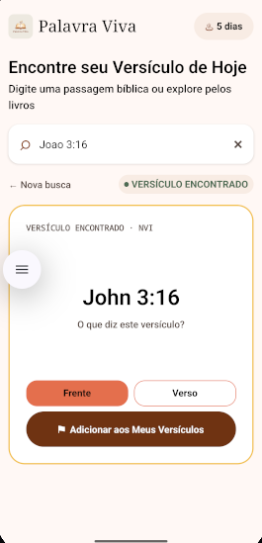
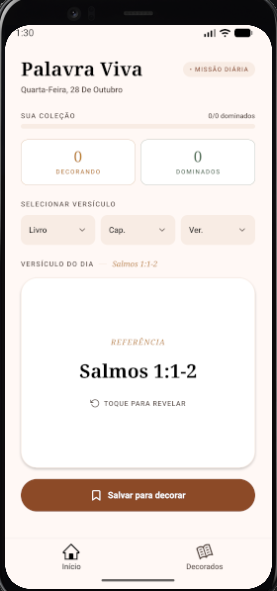
feat: update README with new screenshot layout and replace outdated images

diff --git a/README.md b/README.md
@@ -4,13 +4,9 @@ Aplicativo mobile para encontrar, estudar e memorizar versículos bíblicos. Bus
 
 ## Capturas de tela
 
-| Busca de versículos | Frente do flashcard |
-|:--:|:--:|
-| <img src="assets/screenshots/01-busca.png" alt="Tela inicial com campo de busca de versículos" width="220"> | <img src="assets/screenshots/02-frente-do-flashcard.png" alt="Flashcard com a referência antes de revelar o versículo" width="220"> |
-
-| Versículo revelado | Coleção de versículos salvos |
-|:--:|:--:|
-| <img src="assets/screenshots/03-versiculo-revelado.png" alt="Flashcard mostrando o texto do versículo" width="220"> | <img src="assets/screenshots/04-versiculos-salvos.png" alt="Lista de versículos salvos com filtros de progresso" width="220"> |
+| Frente do flashcard | Versículo revelado | Coleção de versículos salvos |
+|:--:|:--:|:--:|
+| <img src="assets/screenshots/02-frente-do-flashcard.png" alt="Tela inicial com a referência do versículo antes de revelar o texto" width="220"> | <img src="assets/screenshots/03-versiculo-revelado.png" alt="Flashcard mostrando o texto do versículo" width="220"> | <img src="assets/screenshots/04-versiculos-salvos.png" alt="Lista de versículos salvos com filtros de progresso" width="220"> |
 
 ## Funcionalidades
 
